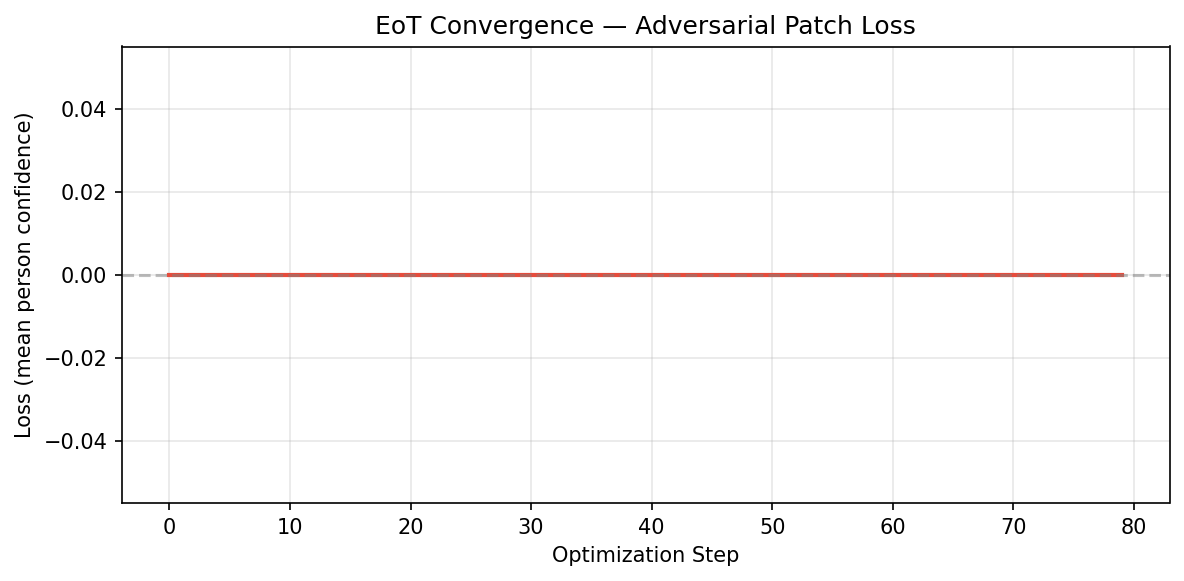
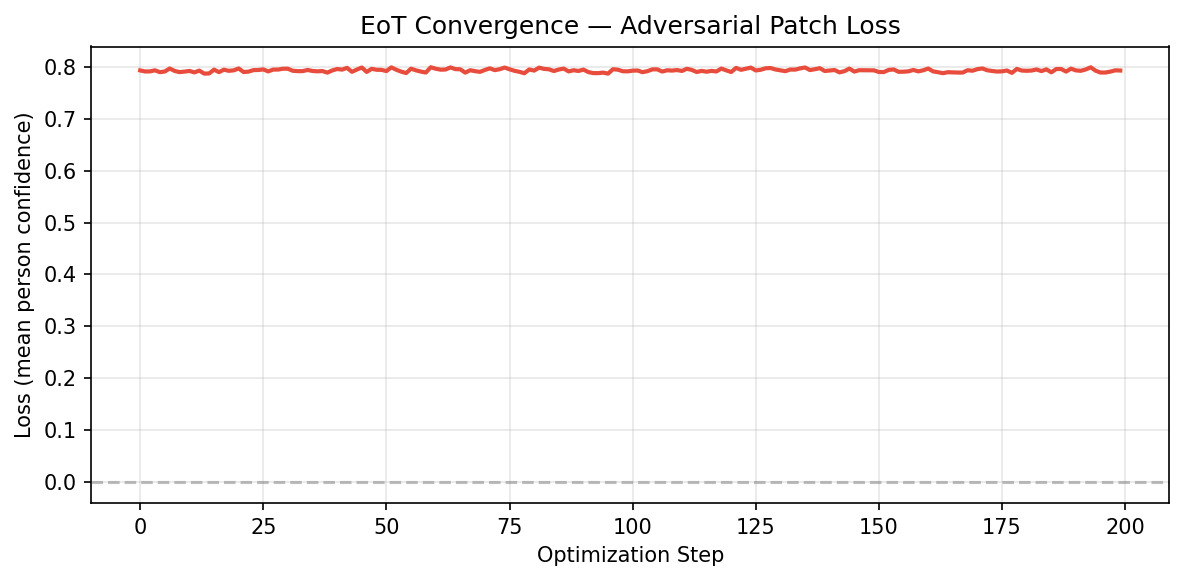
sistemato webcam -> prima uso img statica poi applico patch, drop ancora basso

diff --git a/laws_sim/patch_optimizer.py b/laws_sim/patch_optimizer.py
@@ -7,22 +7,16 @@ Reference:
 """
 
 import random
-import math
 import numpy as np
 from typing import Optional, Tuple
-from pathlib import Path
 
 from PIL import Image
-
 import torch
 import torch.nn.functional as F
 import torchvision.transforms.functional as TF
 
-from ultralytics.utils.plotting import Annotator  
-from ultralytics.data.augment import LetterBox
-
 from config import (
-    PATCH_H, PATCH_W, PATCH_LR, PATCH_STEPS, PATCH_EPS,
+    PATCH_H, PATCH_W, PATCH_LR, PATCH_STEPS,
     EOT_N_TRANSFORMS, PERSON_CLASS_ID, IMG_SIZE
 )
 
@@ -40,36 +34,20 @@ except ImportError:
 
 
 def get_chest_bbox(person_bbox, patch_w, patch_h, img_size=640):
-    """
-    Restituisce un bbox per la patch centrato sul petto.
-    La patch NON viene ridimensionata; mantiene patch_w × patch_h.
-    """
+    """Restituisce un bbox per la patch centrato sul petto."""
     x1, y1, x2, y2 = person_bbox
     cx = (x1 + x2) // 2
-    cy = y1 + int((y2 - y1) * 0.33)          # terzo superiore → petto
-
+    cy = y1 + int((y2 - y1) * 0.33)
     px1 = cx - patch_w // 2
     py1 = cy - patch_h // 2
     px2 = cx + patch_w // 2
     py2 = cy + patch_h // 2
-
-    # Clipping ai bordi dell'immagine
     px1 = max(0, px1); py1 = max(0, py1)
     px2 = min(img_size, px2); py2 = min(img_size, py2)
-
     return (px1, py1, px2, py2)
 
+
 class PatchOptimizer:
-    """
-    Generates an adversarial patch using Expectation over Transformation (EoT).
-
-    The goal is to minimize YOLO's confidence on the "person" class
-    when the patch is applied over the target bounding box.
-
-    EoT simulates physical conditions (rotation, scaling, lighting, blur)
-    to produce a patch robust to real-world variations.
-    """
-
     def __init__(self, patch_h: int = PATCH_H, patch_w: int = PATCH_W,
                  model_path: str = "yolov8n.pt"):
         if not HAS_YOLO:
@@ -78,8 +56,6 @@ class PatchOptimizer:
         self.patch_w = patch_w
         self.model_path = model_path
         self._yolo = None
-
-        # Initialize patch with random uniform noise
         self.patch = torch.rand(3, patch_h, patch_w, dtype=torch.float32, requires_grad=True)
 
     def _get_model(self):
@@ -92,73 +68,40 @@ class PatchOptimizer:
 
     @staticmethod
     def _random_transform(patch: torch.Tensor) -> torch.Tensor:
-        """
-        Apply a random physical transformation (EoT).
-        Simulates drone angle, distance, lighting, orientation, and blur.
-        """
-        t = patch.unsqueeze(0)  # [1, C, H, W]
-
-        # Rotation (±20°)
+        t = patch.unsqueeze(0)
         angle = random.uniform(-20, 20)
         t = TF.rotate(t, angle)
-
-        # Scale (0.75x - 1.25x)
         scale = random.uniform(0.75, 1.25)
         new_h = max(1, int(patch.shape[1] * scale))
         new_w = max(1, int(patch.shape[2] * scale))
         t = F.interpolate(t, size=(new_h, new_w), mode="bilinear", align_corners=False)
         t = F.interpolate(t, size=(patch.shape[1], patch.shape[2]), mode="bilinear", align_corners=False)
-
-        # Color jitter (brightness/contrast)
         brightness = random.uniform(0.7, 1.3)
         contrast = random.uniform(0.8, 1.2)
         t = TF.adjust_brightness(t, brightness)
         t = TF.adjust_contrast(t, contrast)
-
-        # Horizontal flip (50% probability)
         if random.random() < 0.5:
             t = TF.hflip(t)
-
-        # Gaussian blur (defocus/motion)
         sigma = random.uniform(0, 1.5)
         if sigma > 0.3:
             k = int(sigma * 4) | 1
             k = max(3, k)
             t = TF.gaussian_blur(t, kernel_size=k, sigma=sigma)
-
         return torch.clamp(t.squeeze(0), 0, 1)
 
     @staticmethod
-    @staticmethod
-    def apply_patch_to_image(img_t: "torch.Tensor",
-                         patch_t: "torch.Tensor",
-                         bbox: Tuple[int, int, int, int]) -> "torch.Tensor":
-        """
-        Applica la patch all'immagine in modo differenziabile.
-        """
+    def apply_patch_to_image(img_t: torch.Tensor, patch_t: torch.Tensor,
+                             bbox: Tuple[int, int, int, int]) -> torch.Tensor:
         x1, y1, x2, y2 = bbox
         ph = y2 - y1
         pw = x2 - x1
         if ph <= 0 or pw <= 0:
             return img_t
-
-        # Ridimensiona la patch per adattarla al bbox
-        patch_resized = F.interpolate(patch_t.unsqueeze(0),
-                                    size=(ph, pw),
-                                    mode="bilinear",
-                                    align_corners=False).squeeze(0)
-
-        # Crea un tensore della stessa dimensione dell'immagine e posiziona la patch
-        patch_full = torch.zeros_like(img_t)
-        patch_full[:, y1:y2, x1:x2] = patch_resized
-
-        # Maschera binaria (1 nella regione del bbox, 0 altrove)
-        mask = torch.zeros_like(img_t)
-        mask[:, y1:y2, x1:x2] = 1.0
-
-        # Combina immagine originale e patch
-        img_patched = img_t * (1 - mask) + patch_full * mask
-        return img_patched
+        patch_resized = F.interpolate(patch_t.unsqueeze(0), size=(ph, pw),
+                                      mode="bilinear", align_corners=False).squeeze(0)
+        img_clone = img_t.clone()
+        img_clone[:, y1:y2, x1:x2] = patch_resized
+        return img_clone
 
     @staticmethod
     def _get_person_conf(results) -> float:
@@ -171,6 +114,7 @@ class PatchOptimizer:
 
     @staticmethod
     def _get_person_conf_tensor(results) -> torch.Tensor:
+        """Restituisce la confidence media come tensore differenziabile."""
         conf_list = []
         for r in results:
             if r.boxes is not None and len(r.boxes) > 0:
@@ -179,7 +123,9 @@ class PatchOptimizer:
                     conf_list.append(r.boxes.conf[mask])
         if conf_list:
             return torch.cat(conf_list).mean()
-        return torch.tensor(0.0, requires_grad=True)
+        # Importante: restituire un tensore che NON richiede gradiente esplicitamente,
+        # altrimenti si stacca dal grafo. Usiamo un tensore zero normale.
+        return torch.tensor(0.0, device=results[0].boxes.conf.device if results else 'cpu')
 
     def optimize(self, image_path: str,
                  bbox: Optional[Tuple[int, int, int, int]] = None,
@@ -187,20 +133,23 @@ class PatchOptimizer:
                  lr: float = PATCH_LR,
                  n_eot: int = EOT_N_TRANSFORMS,
                  verbose: bool = True) -> dict:
-        """
-        Optimize the adversarial patch on a given image (or webcam frame).
-        """
         model = self._get_model()
 
-        # Load image
+        # Carica immagine
         if image_path == "webcam":
             if not HAS_CV2:
                 raise RuntimeError("OpenCV required for webcam")
-            cap = cv2.VideoCapture(0)
+            cap = cv2.VideoCapture(0, cv2.CAP_AVFOUNDATION)
+            if not cap.isOpened():
+                cap = cv2.VideoCapture(0)
+            for _ in range(10):
+                cap.read()
             ret, frame = cap.read()
             cap.release()
-            if not ret:
-                raise RuntimeError("Webcam not available")
+            if not ret or frame is None:
+                raise RuntimeError("Webcam read failed")
+            cv2.imwrite("webcam_debug_optimize.jpg", frame)
+            print("✓ Frame salvato in webcam_debug_optimize.jpg")
             img_pil = Image.fromarray(cv2.cvtColor(frame, cv2.COLOR_BGR2RGB))
         else:
             img_pil = Image.open(image_path).convert("RGB")
@@ -209,24 +158,20 @@ class PatchOptimizer:
         img_np = np.array(img_pil).astype(np.float32) / 255.0
         img_t = torch.from_numpy(img_np).permute(2, 0, 1)
 
-        # Rilevamento baseline (senza patch)
+        # Baseline detection
         print("[cyan]Rilevamento baseline (senza patch)...[/cyan]")
         results_base = model(img_pil, verbose=False)
         conf_before = self._get_person_conf(results_base)
         print(f"  Confidence person PRIMA patch: [bold]{conf_before:.4f}[/bold]")
 
-        # ── Determina il bbox della persona ───────────────────────
+        # Determina bbox persona
         person_bbox = bbox if bbox is not None else self._find_person_bbox(results_base)
-
         if person_bbox is None:
-            # Fallback: centro immagine (area ragionevole)
             cx, cy = IMG_SIZE // 2, IMG_SIZE // 2
             person_bbox = (cx - 50, cy - 80, cx + 50, cy + 80)
 
-        # ── Calcola il bbox per la patch sul petto ────────────────
+        # Bbox per la patch sul petto
         patch_bbox = get_chest_bbox(person_bbox, self.patch_w, self.patch_h, IMG_SIZE)
-
-        # Ora usa patch_bbox per tutto il resto
         x1, y1, x2, y2 = patch_bbox
         bbox_area = (x2 - x1) * (y2 - y1)
         patch_area = self.patch_h * self.patch_w
@@ -236,56 +181,84 @@ class PatchOptimizer:
         print(f"  BBox patch (petto): {patch_bbox} (area={bbox_area}px)")
         print(f"  Patch: {self.patch_h}×{self.patch_w}  coverage={coverage:.3f} ({coverage*100:.1f}% del bbox patch)")
 
-        # Optimization loop
-        optimizer = torch.optim.Adam([self.patch], lr=lr)
+              # Black‑box optimization: Adaptive Random Search with EoT
+        best_patch = self.patch.clone()
+        best_loss = float('inf')
         loss_history = []
+        sigma = 0.1               # perturbazione iniziale
+        patience = 15             # step senza miglioramenti prima di ridurre sigma
+        no_improve = 0
 
-        if verbose:
-            print(f"\n[cyan]EoT Optimization: {n_steps} steps, {n_eot} transforms/step...[/cyan]")
-
-        for step in range(n_steps):
-            optimizer.zero_grad()
-            step_losses = []
-
+        def compute_eot_loss(patch_tensor):
+            """Calcola la loss media EoT (confidence persona) per un dato tensore patch."""
+            losses = []
             for _ in range(n_eot):
-                patch_t = self._random_transform(self.patch)
+                patch_t = self._random_transform(patch_tensor)
                 img_patched = self.apply_patch_to_image(img_t, patch_t, patch_bbox)
                 batch = img_patched.unsqueeze(0)
                 results = model(batch, verbose=False)
-                conf_tensor = self._get_person_conf_tensor(results)
-                step_losses.append(conf_tensor)
+                conf = self._get_person_conf(results)   # float
+                losses.append(conf)
+            return np.mean(losses)
 
-            loss = torch.stack(step_losses).mean() if step_losses else torch.tensor(0.0, requires_grad=True)
-            loss.backward()
-            optimizer.step()
+        if verbose:
+            print(f"\n[cyan]Black‑box Adaptive Random Search: {n_steps} steps, {n_eot} transforms/step...[/cyan]")
 
-            with torch.no_grad():
-                self.patch.clamp_(0, 1)
+        for step in range(n_steps):
+            # Genera candidato con rumore gaussiano
+            noise = torch.randn_like(best_patch) * sigma
+            candidate = torch.clamp(best_patch + noise, 0, 1)
+            candidate_loss = compute_eot_loss(candidate)
 
-            loss_val = loss.item()
-            loss_history.append(loss_val)
+            # Accettazione probabilistica (simulated annealing)
+            if candidate_loss < best_loss:
+                accept = True
+            else:
+                # Probabilità di accettare peggioramenti (decresce col tempo)
+                temperature = max(0.01, 0.5 * (1 - step / n_steps))
+                delta = candidate_loss - best_loss
+                p_accept = np.exp(-delta / temperature)
+                accept = random.random() < p_accept
+
+            if accept:
+                best_patch = candidate.clone()
+                best_loss = candidate_loss
+                self.patch.data.copy_(best_patch)
+                no_improve = 0
+            else:
+                no_improve += 1
+
+            # Decadimento adattivo di sigma
+            if no_improve >= patience:
+                sigma *= 0.8
+                no_improve = 0
+                if verbose:
+                    print(f"  Step {step+1:3d}: riduzione sigma a {sigma:.4f}")
+
+            loss_history.append(best_loss)
 
             if verbose and (step % 10 == 0 or step == n_steps - 1):
-                print(f"  Step {step+1:3d}/{n_steps} loss={loss_val:.4f}")
+                print(f"  Step {step+1:3d}/{n_steps} best_loss={best_loss:.4f} sigma={sigma:.4f}")
 
-        # Final evaluation
-        if verbose:
-            print("\n[cyan]Evaluation with optimized patch...[/cyan]")
+        # Alla fine, imposta la patch migliore trovata
+        self.patch.data.copy_(best_patch)
+
+        # Valutazione finale
+        print("\n[cyan]Evaluation with optimized patch...[/cyan]")
         img_final = self.apply_patch_to_image(img_t, self.patch.detach(), patch_bbox)
         img_final_pil = Image.fromarray((img_final.permute(1, 2, 0).numpy() * 255).astype(np.uint8))
         results_after = model(img_final_pil, verbose=False)
         conf_after = self._get_person_conf(results_after)
 
-        if verbose:
-            print(f"  Person confidence AFTER patch: [bold red]{conf_after:.4f}[/bold red]")
-            drop = conf_before - conf_after
-            print(f"  Drop: [bold yellow]{drop:+.4f} ({drop/max(conf_before,1e-6)*100:.1f}%)[/bold yellow]")
+        print(f"  Person confidence AFTER patch: [bold red]{conf_after:.4f}[/bold red]")
+        drop = conf_before - conf_after
+        print(f"  Drop: [bold yellow]{drop:+.4f} ({drop/max(conf_before,1e-6)*100:.1f}%)[/bold yellow]")
 
         return {
             "patch": self.patch.detach(),
             "conf_before": conf_before,
             "conf_after": conf_after,
-            "conf_drop": conf_before - conf_after,
+            "conf_drop": drop,
             "loss_history": loss_history,
             "patch_coverage": coverage,
             "bbox": patch_bbox,
